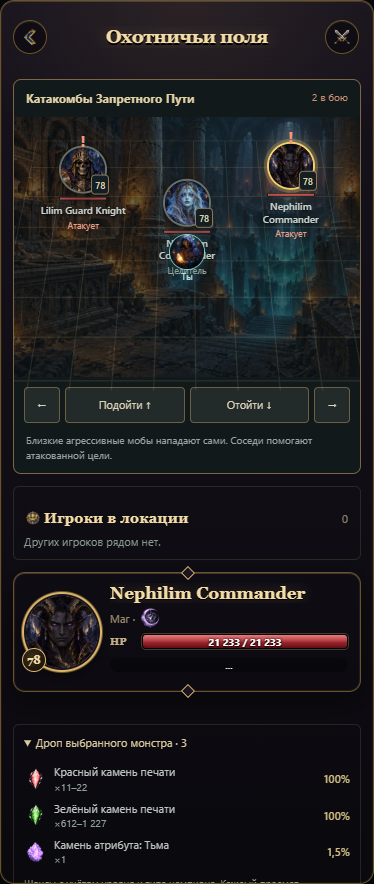
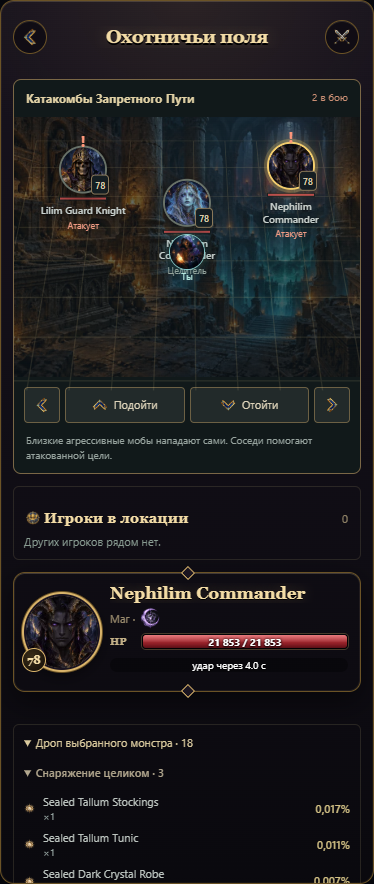
fix(hunt): use painted movement arrows and verify mob frame bounds

diff --git a/webapp/hunt.js b/webapp/hunt.js
@@ -231,7 +231,7 @@ export async function openHuntGame({ api, renderState, haptic, statusElement,ini
       +field.mobs.map(m=>'<button type="button" class="hunt-actor '+(!playerTarget&&m.instanceId===field.target?'selected ':'')+(m.aggro?'aggro':'')+'" data-target="'+escapeHtml(m.instanceId)+'" style="left:'+m.x*100+'%;top:'+m.y*70+'%" aria-pressed="'+(!playerTarget&&m.instanceId===field.target)+'"><span class="hunt-actor-portrait">'+(huntMobUrl(m)?'<img src="'+huntMobUrl(m)+'" alt="">':icon('ghost'))+'<i>'+m.level+'</i></span><span class="hunt-actor-hp"><i style="width:'+m.hpPercent+'%"></i></span><strong>'+escapeHtml(m.name)+'</strong><small>'+(m.stunned?'Оглушён':m.aggro?'Атакует':m.aggressive?'Агрессивный':m.role||'Мирный')+'</small></button>').join('')
       +'<span class="hunt-hero-marker" style="left:'+field.x*100+'%;top:'+Math.min(90,field.y*70+30)+'%"><img src="'+classArtUrl(state.player.className,state.player.gender)+'" alt=""><small>Ты</small></span>'
       +(field.mobs.length?'':'<div class="hunt-field-cleared">Поле зачищено!<br><small>Забери добычу и выбери следующую локацию.</small></div>')
-      +'</div><div class="hunt-movement"><button data-move="left" aria-label="Влево">←</button><button data-move="forward">Подойти ↑</button><button data-move="back">Отойти ↓</button><button data-move="right" aria-label="Вправо">→</button></div><p>Близкие агрессивные мобы нападают сами. Соседи помогают атакованной цели.</p></section>';
+      +'</div><div class="hunt-movement"><button data-move="left" aria-label="Влево">'+icon('chevron-left')+'</button><button data-move="forward">'+icon('arrow-up')+'<span>Подойти</span></button><button data-move="back">'+icon('chevron-right','hunt-move-down')+'<span>Отойти</span></button><button data-move="right" aria-label="Вправо">'+icon('chevron-right')+'</button></div><p>Близкие агрессивные мобы нападают сами. Соседи помогают атакованной цели.</p></section>';
   }
 
   function peersHtml() {

diff --git a/webapp/i18n/uz-extra.js b/webapp/i18n/uz-extra.js
@@ -679,4 +679,29 @@ export default {
   'Торговец Маммона':'Mammon savdogari',
   'Торговец оружием':'Qurol savdogari',
   'Торговцы':'Savdogarlar',
+  'Подойти':'Yaqinlashish',
+  'Отойти':'Uzoqlashish',
+  '{0} / {1} · максимум +{2} по характеристике':'{0} / {1} · har bir xususiyat uchun eng ko‘pi +{2}',
+  '{4}{5}красок {6}/{7} · 🪙 {8} · ур. {9}':'{4}{5}bo‘yoq {6}/{7} · 🪙 {8} · {9}-daraja',
+  'Бонус по этим характеристикам уже достиг +5.':'Bu xususiyatlar bo‘yicha bonus allaqachon +5 ga yetgan.',
+  'Все слоты заняты. Сначала сотри символ.':'Barcha uyalar band. Avval belgini o‘chir.',
+  'Выбери краску ниже':'Pastdan bo‘yoqni tanla',
+  'Закрыт':'Yopiq',
+  'Краски меняют характеристики: до трёх символов':'Bo‘yoqlar xususiyatlarni o‘zgartiradi: uchtagacha belgi',
+  'Мастер символов':'Belgilar ustasi',
+  'Нанести':'Chizish',
+  'Не хватает красок.':'Bo‘yoqlar yetarli emas.',
+  'Нет свободного слота':'Bo‘sh uya yo‘q',
+  'Подходящих красок нет.':'Mos bo‘yoqlar yo‘q.',
+  'Свободный слот':'Bo‘sh uya',
+  'Символ нанесён.':'Belgi chizildi.',
+  'Символ стёрт: вернулось красок — {0}.':'Belgi o‘chirildi: qaytarilgan bo‘yoq — {0}.',
+  'Символы':'Belgilar',
+  'Стереть · 🪙 {3} · вернётся {4}':'O‘chirish · 🪙 {3} · qaytadi {4}',
+  'Такого символа нет.':'Bunday belgi yo‘q.',
+  'Такой краски нет.':'Bunday bo‘yoq yo‘q.',
+  'Твой уровень слишком низкий для этой краски.':'Sening darajang bu bo‘yoq uchun juda past.',
+  'Только подходящие мне':'Faqat menga mosi',
+  'Только те, что у меня есть':'Faqat menda borlari',
+  'Эта краска не для твоего класса.':'Bu bo‘yoq sening sinfing uchun emas.',
 };

diff --git a/webapp/hunt.css b/webapp/hunt.css
@@ -64,6 +64,9 @@
 .hunt-hero-marker>span {display:grid;place-items:center;width:32px;height:32px;border:1px solid #79b9b7;border-radius:50%;background:#16393ae0}
 .hunt-movement {display:grid;grid-template-columns:36px 1fr 1fr 36px;gap:5px;padding:10px}
 .hunt-movement button {min-height:36px;border:1px solid #6c6044;border-radius:4px;background:#222a2a;color:#dcd2b8;font:11px system-ui;cursor:pointer}
+.hunt-movement button {display:flex;align-items:center;justify-content:center;gap:6px;}
+.hunt-movement .ui-icon {width:16px;height:16px;}
+.hunt-movement .hunt-move-down {rotate:90deg;}
 .hunt-battlefield>p {margin:0;padding:0 12px 10px;color:#97a39e;font:10px/1.5 system-ui}
 .hunt-peace {display:block;font-size:10px;color:#99afaa;margin-top:5px}
 .hunt-drop-table {display:grid;gap:7px;padding:9px 0}
